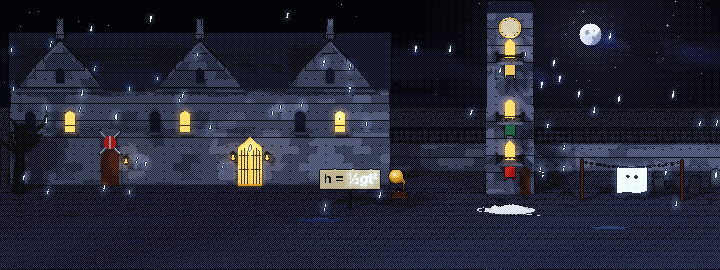
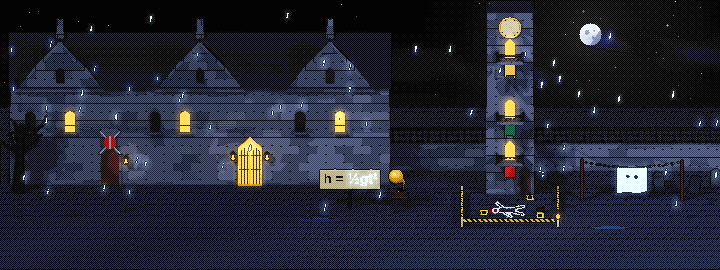
The Midnight Fall courtyard as a real crime scene
The white sheet in an oval of chalk read as spilled milk. Now: a chalk
outline of a body lying sprawled (head, torso, an arm flung up, legs),
stretched in depth so it reads through the camera tilt; a dark dried stain
under the head (no splatter); a yellow-and-black police-tape cordon on four
posts with a lantern on the corner lighting the scene; three evidence
tents; Old Tock's top hat where it rolled and his pocket watch by his hand.
The tower lab gets the same figure, stain and an evidence tent at the 4.5 m
mark (fall_layout.json unchanged). The outline clue now says 'Inside the
police tape' (server, fixture and the courtyard note).

Changed region(s): [[0.6111, 0.7111, 0.7944, 0.8593]]

diff --git a/game/src/cases/fall/index.ts b/game/src/cases/fall/index.ts
@@ -15,7 +15,7 @@ const LAB = FALL.district;
 const BALCONIES: { id: string; label: string }[] = [
   { id: "rivet", label: "Sir Rivet's armoury" }, { id: "varnish", label: "Lady Varnish's gallery" }, { id: "pendle", label: "Pendle's clock room" }];
 const CLUES: { id: string; tag: string; at: World3; w: number; h: number; note: string }[] = [
-  { id: "sheet", tag: "SHEET", at: LAB.clues.sheet as World3, w: 90, h: 40, note: "A chalk outline. A white sheet." },
+  { id: "sheet", tag: "SHEET", at: LAB.clues.sheet as World3, w: 90, h: 40, note: "A chalk outline. His top hat. His pocket watch." },
   { id: "gramophone", tag: "RECORDER", at: LAB.clues.gramophone as World3, w: 40, h: 36, note: "It recorded all night." },
   { id: "tower", tag: "TOWER", at: LAB.clues.tower as World3, w: 90, h: 120, note: "Three balconies. Three heights." },
 ];

diff --git a/art/world/scene_manor.py b/art/world/scene_manor.py
@@ -17,7 +17,7 @@ from envrender import Obj, World, Light, gradient_sky, moon, stars, BAYER4, hexr
 from src import sdf
 
 (COBBLE, COBBLE_D, STONE, STONE_D, SLATE, WINDOW, DARKWIN, CANDLE, WOOD, IRON, CHALK, SHEET, GHOST, BRASS, GILT,
- ARMOUR, BANNER_R, SIGN, SIGN_INK, YEW, GRAVE, VINYL, PUDDLE, OILG) = range(1, 25)
+ ARMOUR, BANNER_R, SIGN, SIGN_INK, YEW, GRAVE, VINYL, PUDDLE, OILG, TAPE, TAPE_INK, MARKER, FELT, BLOOD) = range(1, 30)
 
 W, H = 720, 270
 CENTRE = (0.0, 90.0)
@@ -87,6 +87,19 @@ def _lantern(p, d, mat, x, y, z):
     return d, mat
 
 
+def _outline(u, v):
+    """Signed distance to a body lying sprawled, head to the left, in (u, v) metres*10 on the ground (v already unsquashed)."""
+    def seg(ax, av, bx, bv, r):
+        px, pv, dx, dv = u - ax, v - av, bx - ax, bv - av
+        h = np.clip((px * dx + pv * dv) / (dx * dx + dv * dv), 0, 1)
+        return np.hypot(px - dx * h, pv - dv * h) - r
+    d = np.hypot(u + 14.5, v - 0.5) - 2.8                                  # head
+    for a in ((-9, 0, 3, 0, 3.0), (-7, -2.6, -12.5, -8.5, 1.2), (-6, 2.6, 1, 7.6, 1.2),
+              (2.5, -1.6, 13, -4.6, 1.5), (2.5, 1.6, 12.5, 4.8, 1.5)):  # torso, an arm flung up, an arm down, two legs
+        d = np.minimum(d, seg(*a))
+    return d
+
+
 def _sky(glitch):
     """Storm sky: moon behind a band of cloud, stars above, a far hill and a ragged treeline at the horizon."""
     sky = gradient_sky(W, H, "#04050C", "#1C2140", glow=(590, 34, 190, "#343C66"))
@@ -144,6 +157,12 @@ def materials(glitch):
         WOOD: dict(ramp=["#140A04", "#22120A", "#341C10", "#4A2A18", "#623A22"]),
         IRON: dict(ramp=["#05060A", "#0C0E14", "#16191F", "#22262E"], gloss=20, spec="#9098A8"),
         CHALK: dict(ramp=["#B8BCC8", "#D8DCE6", "#F2F4FA"]),
+        TAPE: dict(ramp=["#6A5208", "#A8820E", "#D8AE1A", "#F6D23C"],
+                   sub=(lambda p: np.floor((p[:, 0] + p[:, 1] + p[:, 2] + 900) / 2.6) % 2 == 0, TAPE_INK)),
+        TAPE_INK: dict(ramp=["#050507", "#0C0C10", "#16161C"]),
+        MARKER: dict(ramp=["#6A5208", "#A8820E", "#D8AE1A", "#F6D23C", "#FFE878"]),
+        FELT: dict(ramp=["#060608", "#0E0E14", "#18181F", "#24242E"]),
+        BLOOD: dict(ramp=["#2A0306", "#4A080C", "#6E1014", "#8E1A1A"], gloss=50, spec="#D87070"),
         SHEET: dict(ramp=["#5A6070", "#8890A0", "#B4BAC8", "#D8DCE6", "#F2F4FA"]),
         GHOST: dict(ramp=["#6A9AFF", "#A8C8FF", "#E8F2FF"], emissive=True),
         BRASS: dict(ramp=["#4A2E08", "#7A5012", "#AC7A22", "#D8A63E", "#F6D070"], gloss=24, spec="#FFF4C8"),
@@ -165,14 +184,14 @@ def build(glitch=True):
 
     def ground(p):
         x, z = p[:, 0], p[:, 2]
-        # a rough figure in chalk round the sheet: body, head, an arm flung out
-        bx, bz = x - BODY_X, z - BODY_Z
-        body = np.abs(np.hypot(bx / 22.0, bz / 11.0) - 1.0) < 0.14
-        head = np.abs(np.hypot(bx + 27.0, bz + 1.0) - 5.4) < 1.2
-        arm = (np.abs(bz - 9.0 - 0.3 * (bx - 8.0)) < 1.2) & (bx > 8.0) & (bx < 30.0)
-        chalk = body | head | arm
+        # the chalk outline of where he lay; depth is stretched 2.4x so the figure reads through the camera's tilt
+        u, v = x - BODY_X, (z - BODY_Z) / 2.4
+        chalk = np.abs(_outline(u, v)) < 0.75
+        # a dark, dried stain spreading from under the head: no splatter, nothing graphic
+        a = np.arctan2(v - 1.0, u + 17.0)
+        blood = np.hypot((u + 17.0) / 5.0, (v - 1.0) / 3.4) < 1.0 + 0.16 * np.sin(5 * a) + 0.08 * np.sin(11 * a + 1)
         puddle = (np.hypot((x + 40) / 22, (z + 14) / 6) < 1) | (np.hypot((x - 250) / 18, (z - 8) / 5) < 1)
-        return p[:, 1], np.where(chalk, CHALK, np.where(puddle, PUDDLE, COBBLE))
+        return p[:, 1], np.where(chalk, CHALK, np.where(blood, BLOOD, np.where(puddle, PUDDLE, COBBLE)))
     objs.append(Obj(ground, (-400, -2, -340), (400, 0.2, 260), "ground"))
 
     # the main house: coursed stone, a steep slate roof, pointed windows; armoury door left, gallery doors right
@@ -246,13 +265,28 @@ def build(glitch=True):
         return d, mat
     objs.append(Obj(tower, (120, -1, -140), (180, 238, -74), "tower"))
 
-    # the crime scene: a white sheet over Old Tock, inside the chalk
+    # the crime scene: police tape on four iron posts, a lantern on the corner, three evidence tents,
+    # Old Tock's top hat where it rolled and his pocket watch by his hand
+    POSTS = ((BODY_X - 48, FRONT + 4), (BODY_X - 48, BODY_Z + 49), (BODY_X + 48, BODY_Z + 49), (BODY_X + 48, FRONT + 4))
     def scene(p):
-        lump = sdf.smin(sdf.ellipsoid(p, (BODY_X + 2, 0.0, BODY_Z), (15.0, 5.6, 6.4)),
-                        sdf.ellipsoid(p, (BODY_X - 15, 0.0, BODY_Z - 0.6), (4.8, 5.0, 4.8)), 2.0)
-        drape = sdf.ellipsoid(p, (BODY_X, 0.0, BODY_Z), (20.0, 1.4, 9.4))
-        return sdf.smin(lump, drape, 1.6), SHEET
-    objs.append(Obj(scene, (BODY_X - 26, -1, BODY_Z - 12), (BODY_X + 26, 8, BODY_Z + 12), "scene"))
+        d, mat = np.full(len(p), 1e9), np.full(len(p), IRON)
+        for px, pz in POSTS:
+            d, mat = _put(d, mat, sdf.capsule(p, (px, 0, pz), (px, 10.0, pz), 1.1), SIGN)
+        for (ax, az), (bx, bz) in zip(POSTS, POSTS[1:]):
+            c = np.array([(ax + bx) / 2, 7.0, (az + bz) / 2])
+            d, mat = _put(d, mat, sdf.box(p - c, (max(abs(bx - ax) / 2, 0.9), 1.3, max(abs(bz - az) / 2, 0.3))), TAPE)
+        d, mat = _lantern(p, d, mat, BODY_X + 48, 12.0, BODY_Z + 49)
+        for k, (mx, mz) in enumerate(((BODY_X - 26, BODY_Z + 12), (BODY_X + 20, FRONT + 12), (BODY_X + 30, BODY_Z + 20))):
+            q = p - [mx, 0, mz]
+            tent = np.maximum(np.maximum(np.abs(q[:, 0]) - 3.4, np.abs(q[:, 2]) * 1.5 + q[:, 1] - 5.6), -q[:, 1])
+            spot = (np.abs(q[:, 0]) < 1.3) & (np.abs(q[:, 1] - 2.4) < 1.2)
+            d, mat = _put(d, mat, tent, np.where(spot, SIGN_INK, MARKER))
+        hat = (p - [BODY_X + 30, 3.0, BODY_Z + 10]) @ sdf.rot_z(np.pi / 2)
+        d, mat = _put(d, mat, sdf.cylinder_y(hat, 2.8, 3.6, 0.3), FELT)
+        d, mat = _put(d, mat, sdf.cylinder_y(hat - [0, -3.6, 0], 4.8, 0.35, 0.2), FELT)
+        d, mat = _put(d, mat, sdf.cylinder_y(p - [BODY_X - 3, 0.3, BODY_Z + 21], 1.7, 0.3, 0.1), BRASS)
+        return d, mat
+    objs.append(Obj(scene, (BODY_X - 52, -1, FRONT), (BODY_X + 52, 16, BODY_Z + 54), "scene"))
 
     # the ghost-hunter's gramophone on a little table
     def gramophone(p):
@@ -352,6 +386,7 @@ def build(glitch=True):
         lights.append(Light((TOWER_X, hb + 9, FRONT + 10), "#F8B860", 0.35, 30, shadow=False))
     for lx, ly in ((-234, 28), (-127, 32), (-93, 32)):          # the door lanterns
         lights.append(Light((lx, ly, -150 + 46), "#F8B060", 0.55, 48, shadow=False))
+    lights.append(Light((BODY_X + 48, 12, BODY_Z + 52), "#F8D090", 0.7, 80, shadow=False))   # the lantern over the tape
     if not glitch:
         lights += [Light((-160, 70, -100), "#FFC870", 0.7, 160, shadow=False)]
     else:

diff --git a/art/world/build_fall_labs.py b/art/world/build_fall_labs.py
@@ -168,8 +168,16 @@ def lab_tower():
     d.line((404, GROUND + 5, 418, GROUND + 5), fill="#9AA4C8")
     d.rectangle((WALL_X - 2, GROUND + 5, WALL_X + 222, GROUND + 20), fill="#101018")
     ox = round(WALL_X + OUTLINE_M * PX_PER_M)
-    d.ellipse((ox - 16, GROUND - 1, ox + 16, GROUND + 5), outline="#F2F4FA")
-    d.ellipse((ox - 24, GROUND, ox - 16, GROUND + 4), outline="#F2F4FA")
+    # the same chalk figure as the courtyard, seen low across the ground, and an evidence tent beside it
+    from scene_manor import _outline
+    yy, xx = np.mgrid[GROUND - 5:GROUND + 9, ox - 20:ox + 18]
+    fig = np.abs(_outline((xx - ox) - 1.0, (yy - GROUND - 2.0) / 0.62)) < 0.95
+    d.ellipse((ox - 22, GROUND, ox - 11, GROUND + 4), fill="#3C070B")      # the dried stain under his head
+    d.ellipse((ox - 19, GROUND + 1, ox - 14, GROUND + 3), fill="#560C0F")
+    for y, x in zip(yy[fig], xx[fig]):
+        d.point((int(x), int(y)), fill="#F2F4FA")
+    d.polygon([(ox + 22, GROUND + 2), (ox + 30, GROUND + 2), (ox + 26, GROUND - 6)], fill="#F6D23C", outline="#6A5208")
+    d.rectangle((ox + 25, GROUND - 2, ox + 26, GROUND - 1), fill=INK)
     small = _font("arialbd.ttf", 8)
     for k in range(0, 23):
         x = WALL_X + k * PX_PER_M

diff --git a/server/kits/fall.py b/server/kits/fall.py
@@ -79,7 +79,7 @@ class FallKit(Kit):
 
     def clues(self, hidden):
         return [
-            dict(id="outline", name="Chalk outline", text="Under the white sheet, out from the tower wall."),
+            dict(id="outline", name="Chalk outline", text="Inside the police tape, out from the tower wall."),
             dict(id="gramophone", name="Ghost-hunter's gramophone", text="Recording all night. It caught the cry and the thud."),
             dict(id="balconies", name="Three balconies", text="Armoury 4.9 m, gallery 11.0 m, clock room 19.6 m."),
         ]
